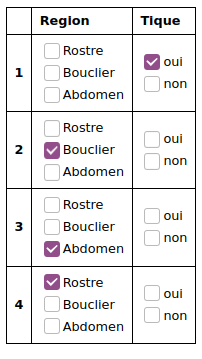
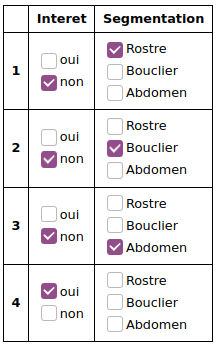
Read me update + bugfix

Changed region(s): [[0.0, 0.0, 0.9802, 0.9972]]

diff --git a/main.py b/main.py
@@ -1,4 +1,5 @@
 #!/usr/bin/env python3
+# pylint: disable=unused-variable
 
 from Ptera_object import Segmentation
 from tqdm import tqdm #Une petite barre de progression on sait jamais ca peut etre long
@@ -11,8 +12,8 @@ def main(path_json,path_image,liste_seg,interet = True, reshape = (512,512),valu
 
     enregistrement = str(enregistrement)
 
-    if value_augmentation < 0 or value_augmentation > len(TRANSFO):
-        raise ValueError ("value_augmentation doit etre compris entre 0 et " + str(len(TRANSFO)))
+    if value_augmentation < 0 or value_augmentation > len(TRANSFO) + 1:
+        raise ValueError ("value_augmentation doit etre compris entre 0 et " + str(len(TRANSFO)+1))
 
     seg = Segmentation(path_json,path_image,liste_seg,reshape,enregistrement=enregistrement)
 
@@ -44,11 +45,11 @@ def main(path_json,path_image,liste_seg,interet = True, reshape = (512,512),valu
                     transfo = transfo_restante.pop() #Supprime et renvoie le dernier élément de la lsite
 
                     if transfo == "seg.contrast(": #Permet de rajouter de l'aléatoire dans le constrasste et le sharp
-                        strength = round(random.uniform(0.5,1.5),3)
+                        strength = round(random.choice([0.5,1.3]) + random.uniform(0,0.2),3)
                         transfo = transfo + str(strength) + ')'
                         exec(transfo)
                     elif transfo == "seg.sharp(":
-                        strength = round(random.uniform(1,2),3)
+                        strength = round(random.uniform(1.7,2),3)
                         transfo = transfo + str(strength) + ')'
                         exec(transfo)
                     else:

diff --git a/README.md b/README.md
@@ -2,21 +2,25 @@
 ## PréTraitEment Rapide des fichiers viA
 
 Petit script qui permet de renvoyer des images (JPEG) à partir des JSON des ségmentations fournis par VIA  
+
 Variables d'entrées:  
 * Chemin d'accès vers le fichier JSON des segmentations
 * Chemin d'accès vers le fichier contenant les images segmentés
-* Largeur des images désiré (optionel par défault 512px)
-* Hauteur des images désiré (optionel par défault 512px)  
+* Nom des segmentations séparé par une virgule (senssible à la case)
+* Largeur + Hauteur des images désiré (optionel -s par défault 512.512px)
+* Valeur de l'augmentation compris entre 0 et 9 (optionel - A par défault 0)
+* Chemin d'accès vers le dossier de l'enregistrement (optionel -E par défault '.')
+* Activation de la découpe de la zone d'intéret (optionel -c par défault True)  
   
-Ce script permet de créer des images JPEG représentant les segmentations mais également de croper les images sur les zones d'intéret désigné par la personne aillant
-fait la segmentation. Il permet également de redimenssioner les images et les masques aux dimensions voulu.
+Ce script permet de créer des images JPEG représentant les segmentations mais également de croper les images sur les zones d'intéret désigné par la personne aillant fait la segmentation. Il permet également de redimenssioner les images et les masques aux dimensions voulu.
+Une augmentation est possible avec l'application alléatoire d'une transformation (voir détails à la section augmentation)
 
-Le script va créer 2 dossier Images et Masques à l'endroit de l'exécution et va ranger dedans les images et masques optenues.  
+Le script va créer 2 dossier Images et Masques à l'endroit désigné et va ranger dedans les images et masques optenues.  
 
 ## Instruction pour VIA  
 
 Les instructions pour installer et utiliser VIA sont ici : [via](https://www.robots.ox.ac.uk/~vgg/software/via/)  
-**Attention les majuscules sont importantes!**  
+**Attention les majuscules sont importantes!** *Sera corrigé plus tard*
 Pour notre segmentation nous avons besoin de 2 Attributes :
 * 'Segmentation' qui est une checkbox avec maximum 5 id
 * 'Interet' qui est une checkbox avec 2 id:
@@ -25,22 +29,26 @@ Pour notre segmentation nous avons besoin de 2 Attributes :
 
 ### Configuration des attributes 
 
-![Image pour l'attribute Region](https://github.com/YFrendo/ptera/blob/main/images_readme/Region.png?raw=true)
-![Image pour l'attribute Tique](https://github.com/YFrendo/ptera/blob/main/images_readme/TIque.png?raw=true)  
+![Image pour l'attribute Segmentation](https://github.com/YFrendo/ptera/blob/main/images_readme/Segmentation.png?raw=true)
+![Image pour l'attribute Interet](https://github.com/YFrendo/ptera/blob/main/images_readme/Interet.png?raw=true)  
 
 ### Segmentation et annotation  
 
-![Image pour l'attribute Region](https://github.com/YFrendo/ptera/blob/main/images_readme/Image_segmente.png?raw=true)
-![Image pour l'attribute Tique](https://github.com/YFrendo/ptera/blob/main/images_readme/Annotations.png?raw=true)  
+![Segmentation](https://github.com/YFrendo/ptera/blob/main/images_readme/Image_segmente.png?raw=true)
+![Annotations](https://github.com/YFrendo/ptera/blob/main/images_readme/Annotations.png?raw=true)  
 
 ## Utilisation de PTERA  
 
 Il suffit d'installer les requirements disponible dans le git et de lancer la commande suivante à l'endroit où vous voulez que les fichiers soit créer:  
-`python3 ptera.py [path du fichier JSON des annotations] [path du dossier contenant les images] [Largeur] [Hauteur]`
+`python3 main.py [path du fichier JSON des annotations] [path du dossier contenant les images] [Nom des segmentations séparé par une virgule ]-s [Largeur,Hauteur] -A [Valeur de l'augmentation] -E [path enregistrement] -c [Crop]`
 
 ### Résultats de PTERA
 
 ![Image pour l'attribute Region](https://github.com/YFrendo/ptera/blob/main/images_readme/Resultat_ptera.png?raw=true)
+
+### Augmentation
+
+Une augmentation est possible jusque à 9 fois
 
 ## Améliorations possibles
 
